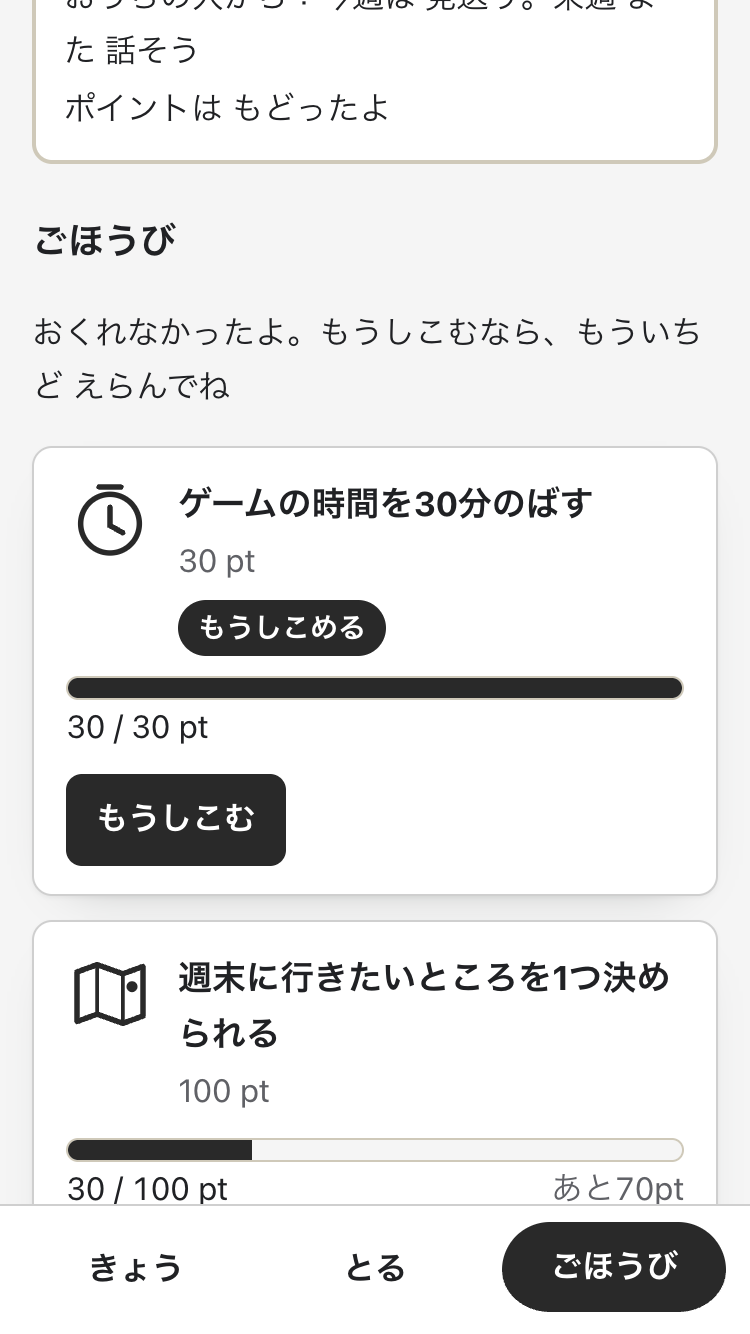
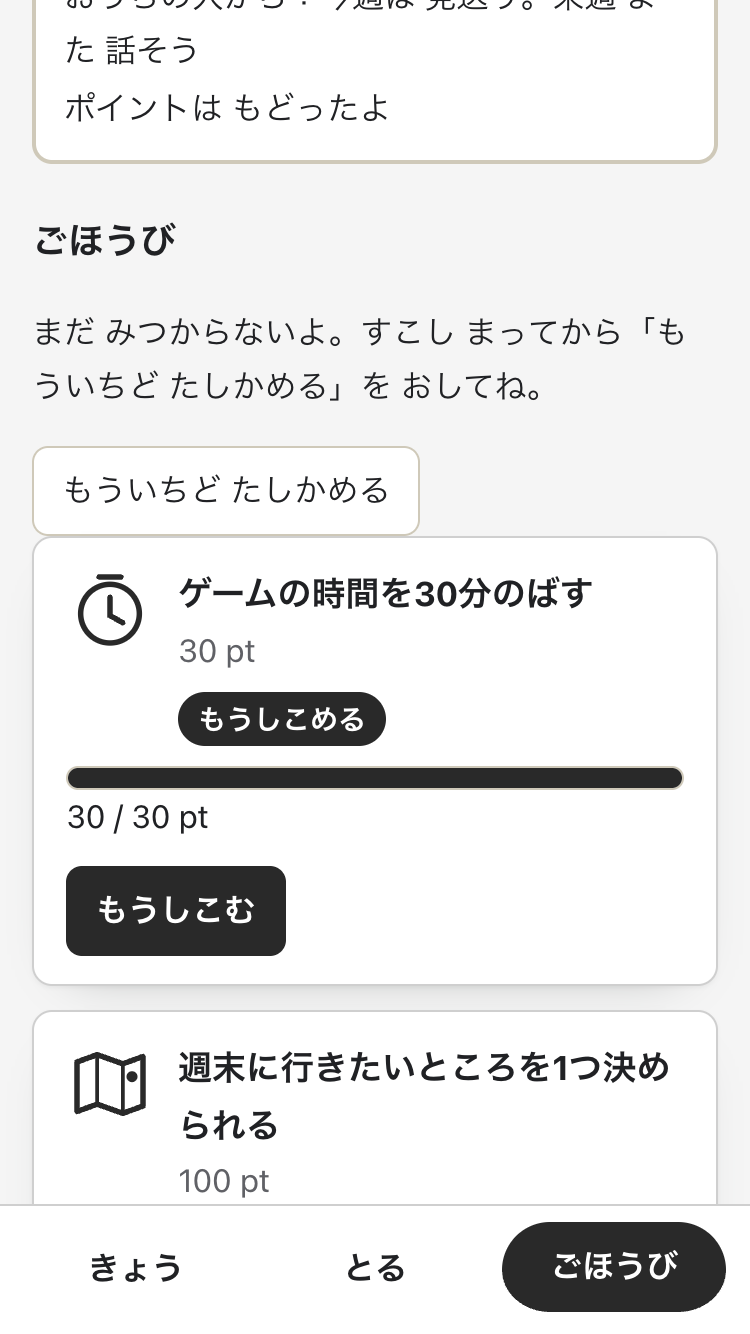
fix(#21): コードレビューの4件（応答不明はすぐ未送信と決めない・親の操作ロック・認証なし・返金の判定）

diff --git a/static/reward.html b/static/reward.html
@@ -200,6 +200,9 @@ const PARENT_ST={requested:"もうしこみ",approved:"OK（手渡し待ち）",
 const SENDING="おくっているよ";
 const CHECKING="おくれたか たしかめているよ";
 const UNKNOWN="おくれたか まだ わからないよ。もういちど もうしこまずに、「もういちど たしかめる」を おしてね。";
+const NOT_FOUND_YET="まだ みつからないよ。すこし まってから「もういちど たしかめる」を おしてね。";
+const SETTLE_MS=6*60*1000;   // これより前に送ったものは、見つからなければ「送れていない」と言える（サーバーの timeout は 300秒）
+const PENDING_KEY="mimamori-reward-pending";
 const CAPPED="こんげつの もうしこみは おやすみ。おうちの人と はなしてね";
 // 親の画面か。子どもの端末で親に切り替えたときも親（#16 ①）。認証がない環境は ?view=parent に従う
 let parentView=false;
@@ -265,10 +268,16 @@ function cardState(reward,ctx){
   return {kind:"ready",can:!ctx.sending&&!ctx.uncertain,text:"もうしこめる"};
 }
 // みおくりで「ポイントは もどったよ」と言えるのは、戻した記録が見つかったときだけ（§2.4.2）
-function refunded(req,hist){
+// 台帳の記録は申込 ID を持たないので、名前・ポイント・理由・日付まで一致するものを数える。
+// 同じ報酬・同じ理由の見送りが複数あるときは、その数だけ戻した記録がなければ言わない（前の見送りの記録で言わない。コードレビュー #41）
+function refunded(req,hist,items){
   if(!Array.isArray(hist)) return false;
-  const head="「"+req.label+"」の交換を取りやめ";
-  return hist.some(e=>e.kind==="adjust"&&Number(e.points)===Number(req.cost)&&!e.revoked&&String(e.title||"").startsWith(head));
+  const title="「"+req.label+"」の交換を取りやめ："+String(req.note||"").trim();
+  const day=String(req.decided_at||"").slice(0,10);
+  const same=r=>r.status==="rejected"&&r.label===req.label&&Number(r.cost)===Number(req.cost)&&String(r.note||"").trim()===String(req.note||"").trim();
+  const peers=(items||[req]).filter(same).length||1;
+  const found=hist.filter(e=>e.kind==="adjust"&&!e.revoked&&Number(e.points)===Number(req.cost)&&String(e.title||"")===title&&(!day||String(e.date||"")>=day)).length;
+  return found>=peers;
 }
 // 残高の直下に出すもの：申込中・OK と、2週間以内の みおくり
 function activeReqs(items,now){
@@ -387,7 +396,7 @@ function paintReqs(){
     if(r.status==="approved") li.appendChild(element("p","てわたしを まっているよ","muted"));
     if(r.status==="rejected"){
       if(r.note) li.appendChild(element("p","おうちの人から："+r.note));
-      if(refunded(r,history)) li.appendChild(element("p","ポイントは もどったよ"));
+      if(refunded(r,history,reqs)) li.appendChild(element("p","ポイントは もどったよ"));
     }
     list.appendChild(li);
   }
@@ -440,13 +449,19 @@ function paintSendNote(text){
   $("#recheck").hidden=!uncertain;
 }
 
+// ---------------------------------------------------------------- 送れたか分からないもの（端末に覚える）
+function pendingAll(){ try{ return JSON.parse(localStorage.getItem(PENDING_KEY)||"{}")||{}; }catch(e){ return {}; } }
+function pendingSave(all){ try{ localStorage.setItem(PENDING_KEY,JSON.stringify(all)); }catch(e){} }
+function pendingGet(key){ return pendingAll()[key]||null; }
+function pendingSet(key,value){ const all=pendingAll(); if(value) all[key]=value; else delete all[key]; pendingSave(all); }
+
 // ---------------------------------------------------------------- もうしこむ（2タップ：入口 → 確定）
 async function askFor(reward){
   if(sending||uncertain||open!==reward.label) return;
   const me=child, id=epoch;
   const sent={label:reward.label,cost:costOf(reward),yen:yenOf(reward)};
   const before=(reqs||[]).map(r=>r.id);
-  sending=true; lastSent={sent,before};
+  sending=true; lastSent={sent,before,at:Date.now()};
   paintSendNote(SENDING); paintCards();
   try{
     await postJSON("/api/redeem",{child:me,label:sent.label,cost:sent.cost,yen:sent.yen});
@@ -458,7 +473,7 @@ async function askFor(reward){
   }catch(err){
     if(id!==epoch) return;
     sending=false;
-    if(err.unknown){ uncertain=sent; await recheck(); return; }
+    if(err.unknown){ uncertain=sent; open=""; pendingSet("kid:"+me,lastSent); await recheck(); return; }
     // 断られた（残高・上限など）。理由を出して、今の状態を取り直す
     open="";
     await loadChild(true);
@@ -476,7 +491,13 @@ async function recheck(){
   catch(e){ if(id===epoch) paintSendNote(UNKNOWN); return; }
   if(id!==epoch) return;
   const hits=matchSent(lastSent.before,after,lastSent.sent);
+  if(!hits&&Date.now()-lastSent.at<SETTLE_MS){
+    // 見つからなくても、まだ処理中かもしれない。送れていないとは決めず、申込を止めたまま
+    paintSendNote(NOT_FOUND_YET); paintCards();
+    return;
+  }
   uncertain=null; open=""; lastSent=null;
+  pendingSet("kid:"+child,null);
   await loadChild(true);
   if(id!==epoch) return;
   paintSendNote(hits?KID_ST.requested:"おくれなかったよ。もうしこむなら、もういちど えらんでね");
@@ -485,6 +506,8 @@ $("#recheck").addEventListener("click",recheck);
 
 // ---------------------------------------------------------------- 親の領域
 function paintParent(){
+  settleUnsure();
+  const unsure=unsureDecisions();
   const box=$("#p-reqs");
   box.replaceChildren();
   if(reqs==null){ box.appendChild(element("p","もうしこみを 読み込めませんでした","muted")); }
@@ -496,18 +519,22 @@ function paintParent(){
     head.appendChild(element("span",r.label+"（"+r.cost+"pt"+(r.yen?"・"+r.yen+"円":"")+"）"));
     row.appendChild(head);
     if(r.note) row.appendChild(element("p","理由・メモ："+r.note,"muted"));
-    if(r.status==="requested"||r.status==="approved"){
+    if(unsure[r.id]){
+      row.appendChild(element("p","送れたか確かめています。少し待って読み直してください","muted"));
+      row.appendChild(button("読み直す","",()=>loadChild(true)));
+    }else if(r.status==="requested"||r.status==="approved"){
       const acts=element("div",undefined,"row");
       if(r.status==="requested") acts.appendChild(button("OK","primary",()=>decide("approve",r.id)));
       acts.appendChild(button("わたした","",()=>decide("hand",r.id)));
       acts.appendChild(button("みおくる","",()=>showReject(row,r)));
+      for(const b of acts.children) b.disabled=deciding;
       row.appendChild(acts);
     }
     box.appendChild(row);
   }
   const rem=remaining||{}, bits=[];
-  if(rem.yen_left!=null) bits.push("今月あと "+rem.yen_left+"円");
-  if(rem.count_left!=null) bits.push("あと "+rem.count_left+"回");
+  if(rem.yen_left!=null) bits.push(rem.yen_left<0?"今月の上限を "+(-rem.yen_left)+"円 こえています":"今月あと "+rem.yen_left+"円");
+  if(rem.count_left!=null) bits.push(rem.count_left<0?"今月の回数を "+(-rem.count_left)+"回 こえています":"あと "+rem.count_left+"回");
   $("#left").textContent=bits.join("／");
   if(rem.cap){ $("#capyen").value=rem.cap.yen; $("#capcount").value=rem.cap.count; }
 }
@@ -529,22 +556,37 @@ function showReject(row,r){
   text.focus();
 }
 let deciding=false;
+// 送れたか分からない親の操作：申込 ID → 送ったときの状態。状態が変わったのを確かめるまで、その申込は操作させない
+function unsureDecisions(){ const all=pendingAll(); return all.parent||{}; }
+function setUnsure(id,value){ const all=pendingAll(); all.parent=all.parent||{}; if(value) all.parent[id]=value; else delete all.parent[id]; pendingSave(all); }
+function settleUnsure(){
+  const unsure=unsureDecisions();
+  for(const [id,u] of Object.entries(unsure)){
+    const r=(reqs||[]).find(x=>x.id===id);
+    if((r&&r.status!==u.status)||Date.now()-u.at>=SETTLE_MS) setUnsure(id,null);
+  }
+}
 async function decide(what,id,note){
   if(deciding) return;
+  const before=(reqs||[]).find(x=>x.id===id)?.status||"";
   deciding=true;
+  paintParent();   // 送っているあいだは どの申込のボタンも押せない
   const s=epoch;
   $("#p-note").textContent="送っています";
+  let done="";
   try{
     await postJSON("/api/redeem/"+what,{id,note:note||""});
-    if(s!==epoch) return;
-    $("#p-note").textContent={approve:"OK にしました",hand:"わたした にしました",reject:"みおくりにして、ポイントを戻しました"}[what];
+    done={approve:"OK にしました",hand:"わたした にしました",reject:"みおくりにして、ポイントを戻しました"}[what];
   }catch(err){
-    if(s!==epoch) return;
-    $("#p-note").textContent=err.unknown?"送れたか分かりません。一覧を読み直しました。状態を確かめてください":err.message;
-  }finally{
-    deciding=false;
-    if(s===epoch) await loadChild(true);
+    if(err.unknown) setUnsure(id,{status:before,at:Date.now()});
+    done=err.unknown?"送れたか分かりません。状態が変わったのを確かめるまで、この申込は操作できません。少し待って読み直してください":err.message;
   }
+  // 一覧を読み直して状態を確かめてから、ロックを外す
+  if(s===epoch) await loadChild(true);
+  deciding=false;
+  if(s!==epoch) return;
+  paintParent();
+  $("#p-note").textContent=done;
 }
 async function loadPace(){
   const list=$("#pace"), s=seq;
@@ -608,6 +650,10 @@ async function loadChild(keep){
   }
   paintAll();
   if(parentView) loadPace();
+  if(!keep&&!parentView&&!uncertain){
+    const saved=pendingGet("kid:"+me);
+    if(saved&&saved.sent&&Array.isArray(saved.before)){ uncertain=saved.sent; lastSent=saved; recheck(); }
+  }
 }
 $("#reload").addEventListener("click",()=>loadChild(false));
 // 文字を大きくしてナビが画面の3割をこえたら、下に固定しない（kid と同じ）
@@ -648,7 +694,8 @@ async function boot(){
   ]);
   const wantParent=new URLSearchParams(location.search).get("view")==="parent";
   // 親の領域は、親でログインしているときだけ。認証のない環境（401/404）は ?view=parent に従う
-  const parent=me?.role==="parent"?true:me?.role==="child"?false:wantParent;
+  // 認証が無効な環境では /api/auth/me が role:"parent"・auth:false を返す。そのときは ?view=parent に従う（コードレビュー #41）
+  const parent=me?.auth?me.role==="parent":wantParent;
   setAudience(parent);
   // 子どもの端末でログインしていないとき（認証なし）は、親への入口を ?view=parent にする
   if(!me?.auth) $("#to-parent").href="/reward?view=parent";

diff --git a/tests/ux/test_reward.py b/tests/ux/test_reward.py
@@ -66,6 +66,8 @@ const document={documentElement:new Element('html'),body:new Element('body'),act
   querySelectorAll:s=>s==='#rewards .card'?document.querySelector('#rewards').children:[],
   createElement:tag=>new Element(tag)};
 const window={innerHeight:667,addEventListener(){}};
+const store=new Map();
+const localStorage={getItem:k=>store.get(k)??null,setItem:(k,v)=>store.set(k,String(v))};
 let search='';
 const location={get search(){return search;}};
 let replies=[],calls=[];
@@ -278,9 +280,22 @@ await askFor(G);                      // 送り直させない
 assert.equal(posts().length,1);
 // もういちど たしかめる：申込がない → 送れていなかった
 replies.push({items:[]});
+await document.querySelector('#recheck').click();
+// 見つからなくても、まだ処理中かもしれない：送れていないとは決めない（コードレビュー #41）
+assert.equal(text('#send-note'),'まだ みつからないよ。すこし まってから「もういちど たしかめる」を おしてね。');
+assert.ok(uncertain);
+assert.equal(card(G.label).querySelector('[data-ask]').disabled,true);
+await askFor(G);
+assert.equal(posts().length,1);
+// 再読込しても（端末に覚えている）止まったまま
+assert.ok(JSON.parse(localStorage.getItem('mimamori-reward-pending'))['kid:下の子']);
+// サーバーの処理が終わるはずの時間をこえても見つからなければ、送れていない
+lastSent.at-=SETTLE_MS;
+replies.push({items:[]});
 reload({bal:34});
 await document.querySelector('#recheck').click();
 assert.match(text('#send-note'),/^おくれなかったよ/);
+assert.equal(JSON.parse(localStorage.getItem('mimamori-reward-pending'))['kid:下の子'],undefined);
 assert.equal(uncertain,null);
 assert.equal(document.querySelector('#recheck').hidden,true);
 assert.equal(card(G.label).querySelector('[data-ask]').disabled,false);
@@ -318,9 +333,14 @@ assert.equal(sending,false);
     ("parent", "", True),
     (None, "?view=parent", True),
     (None, "", False),
+    # 認証が無効な環境の実際の返事（role:"parent"・auth:false）
+    ("noauth", "?view=parent", True),
+    ("noauth", "", False),
 ])
 def test_parent_area_only_for_parent(role, view, parent):
-    me = "{ok:false,status:401}" if role is None else "{role:'%s',auth:true,name:'x'}" % role
+    me = ("{ok:false,status:401}" if role is None else
+          "{role:'parent',auth:false,name:'',user:''}" if role == "noauth" else
+          "{role:'%s',auth:true,name:'x'}" % role)
     run_js(r'''
 search=VIEW;
 replies.push({children:[{name:'下の子'}]});
@@ -379,4 +399,71 @@ assert.equal(matchSent(['a'],[{id:'a',label:G.label,cost:30,status:'requested'}]
 assert.equal(matchSent([],[{id:'b',label:W.label,cost:100,status:'requested'}],sent),0);
 assert.equal(matchSent([],[{id:'c',label:G.label,cost:20,status:'requested'}],sent),0);
 assert.equal(matchSent([],[{id:'d',label:G.label,cost:30,status:'approved'}],sent),1);
+''')
+
+
+def test_refund_is_not_claimed_from_an_earlier_rejection():
+    run_js(r'''
+const day='2026-09-29';
+const now={id:'n',label:G.label,cost:30,status:'rejected',note:'今週は なし',decided_at:day+'T10:00:00+09:00'};
+const old={id:'o',label:G.label,cost:30,status:'rejected',note:'先月は なし',decided_at:'2026-08-01T10:00:00+09:00'};
+const refund=(note,date)=>({kind:'adjust',points:30,title:'「'+G.label+'」の交換を取りやめ：'+note,date});
+// 前の見送りの記録だけ → 今回は言わない
+assert.equal(refunded(now,[refund('先月は なし','2026-08-01')],[now,old]),false);
+assert.equal(refunded(now,[refund('今週は なし',day)],[now,old]),true);
+// 見送りの日より前の記録は数えない
+assert.equal(refunded(now,[refund('今週は なし','2026-09-01')],[now]),false);
+// 同じ報酬・同じ理由の見送りが2件で、記録が1件 → 言わない
+const twin={...now,id:'t'};
+assert.equal(refunded(now,[refund('今週は なし',day)],[now,twin]),false);
+assert.equal(refunded(now,[refund('今週は なし',day),refund('今週は なし',day)],[now,twin]),true);
+''')
+
+
+def test_parent_decision_lock_holds_until_reload_and_unknown_blocks_that_request():
+    run_js(r'''
+setAudience(true);
+const item={id:'a',label:G.label,cost:30,status:'requested',at:new Date().toISOString()};
+const other={id:'b',label:W.label,cost:100,status:'requested',at:new Date().toISOString()};
+load({bal:4,items:[item,other]});
+const btn=(i,label)=>document.querySelector('#p-reqs').children[i].buttons.find(b=>b.textContent===label);
+replies.push(new Error('offline'));                  // OK の返事が消えた
+const slow=deferred();
+replies.push(()=>slow.promise);                      // 読み直しの points が遅い
+replies.push({items:[item,other],remaining:{cap:{yen:0,count:0},yen_left:null,count_left:null}});
+replies.push({days:null}); replies.push({days:null});   // loadPace
+const first=btn(0,'OK').click();
+await new Promise(r=>setImmediate(r));
+// 読み直しが終わるまで、どの申込のボタンも押せない・押しても送らない
+assert.equal(deciding,true);
+assert.equal(btn(1,'OK').disabled,true);
+await decide('approve','a');
+await decide('approve','b');
+assert.equal(posts().length,1);
+slow.resolve({ok:true,status:200,json:async()=>({child:'下の子',balance:4,history:[],rules:{}})});
+await first;
+for(let i=0;i<5;i++) await new Promise(r=>setImmediate(r));   // めやす（loadPace）の取得を終わらせる
+assert.equal(deciding,false);
+// 状態が変わっていない（requested のまま）ので、この申込は操作させない。ほかの申込は操作できる
+const row0=document.querySelector('#p-reqs').children[0];
+assert.equal(row0.buttons.map(b=>b.textContent).join(','),'読み直す');
+assert.match(row0.textContent,/送れたか確かめています/);
+assert.equal(btn(1,'OK').disabled,false);
+assert.match(text('#p-note'),/送れたか分かりません/);
+// 読み直して状態が変わっていたら、ロックを外す
+reload({bal:4,items:[{...item,status:'approved'},other]});
+replies.push({days:null}); replies.push({days:null});
+await row0.buttons[0].click();
+for(let i=0;i<5;i++) await new Promise(r=>setImmediate(r));
+assert.deepEqual(document.querySelector('#p-reqs').children[0].buttons.map(b=>b.textContent),['わたした','みおくる']);
+''')
+
+
+def test_over_cap_is_not_shown_as_negative():
+    run_js(r'''
+setAudience(true);
+load({bal:4,items:[],rem:{cap:{yen:1000,count:2},yen_left:-500,count_left:-1}});
+assert.equal(text('#left'),'今月の上限を 500円 こえています／今月の回数を 1回 こえています');
+load({bal:4,items:[],rem:{cap:{yen:1000,count:2},yen_left:300,count_left:1}});
+assert.equal(text('#left'),'今月あと 300円／あと 1回');
 ''')
